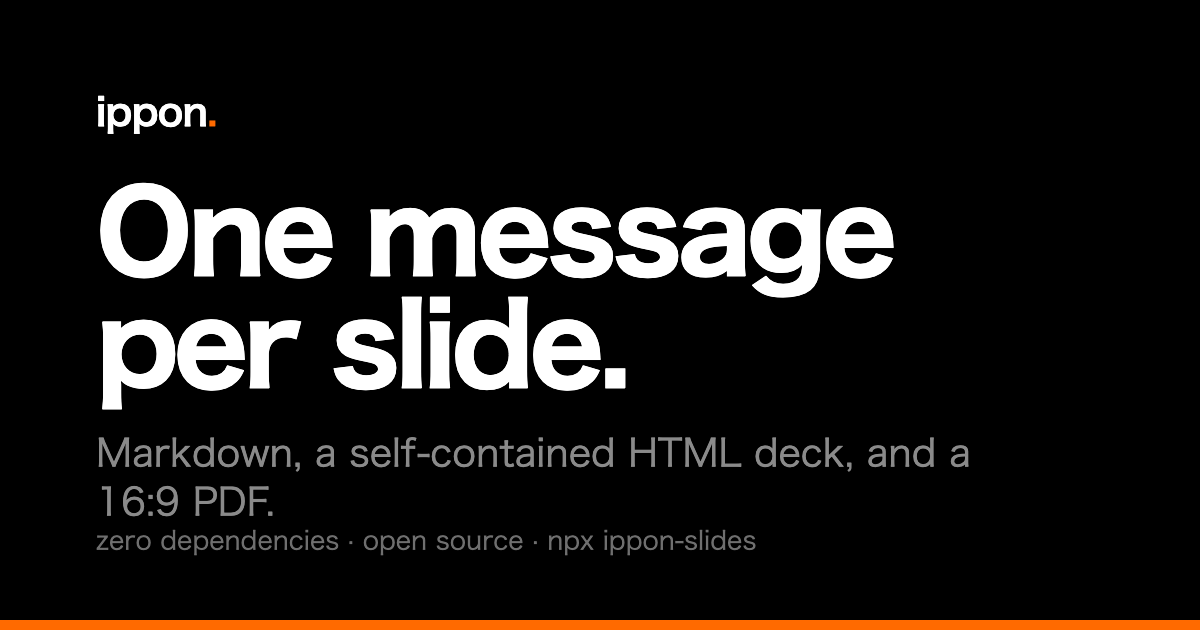
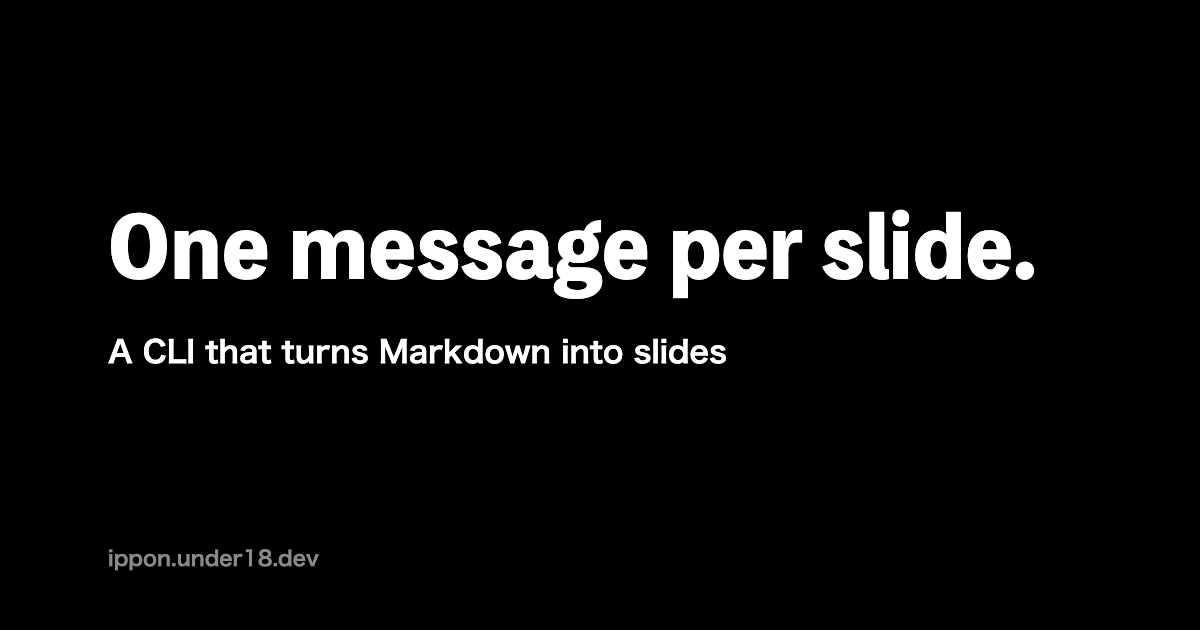
docs: サイトの SEO と AIO を強化する（ページごとの OGP 画像、構造化データ、llms.txt）
- ページごとの OGP 画像を ippon ogp で作り（scripts/og.mjs）、route middleware で og:image に入れる
- ドキュメントに TechArticle とパンくず、よくある質問に FAQPage、トップに WebSite と SoftwareApplication の JSON-LD を付ける
- 各ページの description を descriptions.ts で日英とも書き、<title> にサイトの説明を付け、トップの <title> を検索向けにする
- /llms.txt と /llms-full.txt をドキュメントから作り、robots.txt で AI のクローラーを明示的に許可する
- サイドバーに「なぜ ippon か」と「よくある質問」を足し、theme-color を今の配色に合わせ、og.png を新しい画像にする

diff --git a/site/src/landing.ts b/site/src/landing.ts
@@ -1,12 +1,15 @@
 // トップページの文言（英語 / 日本語）。ヒーローは src/components/Hero.astro、機能のカードは src/components/Features.astro
 
 import type { StarlightIcon } from '@astrojs/starlight/types'
+import pkg from '../../package.json'
 
 export type Lang = 'en' | 'ja'
 
 export interface Copy {
-  /** <title> と og:title（Starlight が「| ippon」を付ける） */
+  /** og:title とページの名前 */
   title: string
+  /** トップの <title>（検索結果に出る。サイト名は付けない） */
+  pageTitle: string
   description: string
   hero: { title: string; lede: string; start: string; github: string; copy: string; copied: string }
   demo: { source: string; deck: string; prev: string; next: string }
@@ -24,6 +27,7 @@ export const docsPath = (lang: Lang, page = '') => `${lang === 'ja' ? '/ja' : ''
 export const COPY: Record<Lang, Copy> = {
   en: {
     title: 'One message per slide',
+    pageTitle: 'ippon — Turn Markdown into one-message-per-slide decks',
     description:
       'A zero-dependency CLI that turns Markdown into one-message-per-slide decks: a single self-contained HTML file, a 16:9 PDF and a share image. Present from your phone, embed live HTTP responses, zoom into code.',
     hero: {
@@ -49,6 +53,7 @@ export const COPY: Record<Lang, Copy> = {
   },
   ja: {
     title: '1 枚 1 メッセージ',
+    pageTitle: 'ippon — Markdown で 1 枚 1 メッセージのスライドを作る CLI',
     description:
       'Markdown を「1 枚 1 メッセージ」のスライドに変換するゼロ依存の CLI。CSS/JS 全部入りの単一 HTML、16:9 の PDF、共有用の画像を出力。スマホをリモコンに、HTTP レスポンスの埋め込み、コードの拡大にも対応。',
     hero: {
@@ -74,22 +79,43 @@ export const COPY: Record<Lang, Copy> = {
   },
 }
 
-/** トップページの <head> に足す構造化データ */
+/** トップページの <head> に足す構造化データ（サイトとソフトウェア） */
 export function homeHead(lang: Lang) {
-  const ld = {
+  const home = `https://ippon.under18.dev${lang === 'ja' ? '/ja/' : '/'}`
+  const t = COPY[lang]
+  const graph = {
     '@context': 'https://schema.org',
-    '@type': 'SoftwareApplication',
-    name: 'ippon-slides',
-    alternateName: 'ippon',
-    description: COPY[lang].description,
-    applicationCategory: 'DeveloperApplication',
-    operatingSystem: 'macOS, Linux, Windows (Node.js ≥ 18.17)',
-    url: `https://ippon.under18.dev${lang === 'ja' ? '/ja/' : '/'}`,
-    downloadUrl: 'https://www.npmjs.com/package/ippon-slides',
-    codeRepository: 'https://github.com/under18dev/ippon-slides',
-    license: 'https://opensource.org/licenses/MIT',
-    author: { '@type': 'Person', name: 'tanahiro2010' },
-    offers: { '@type': 'Offer', price: '0', priceCurrency: lang === 'ja' ? 'JPY' : 'USD' },
+    '@graph': [
+      {
+        '@type': 'WebSite',
+        name: 'ippon',
+        alternateName: 'ippon-slides',
+        url: home,
+        inLanguage: lang,
+        description: t.description,
+      },
+      {
+        '@type': 'SoftwareApplication',
+        name: 'ippon-slides',
+        alternateName: 'ippon',
+        description: t.description,
+        applicationCategory: 'DeveloperApplication',
+        applicationSubCategory: 'Presentation software',
+        operatingSystem: 'macOS, Linux, Windows (Node.js ≥ 18.17)',
+        softwareVersion: pkg.version,
+        url: home,
+        image: `https://ippon.under18.dev/og/${lang === 'ja' ? 'ja/index' : 'index'}.png`,
+        downloadUrl: 'https://www.npmjs.com/package/ippon-slides',
+        installUrl: 'https://www.npmjs.com/package/ippon-slides',
+        codeRepository: 'https://github.com/under18dev/ippon-slides',
+        sameAs: ['https://github.com/under18dev/ippon-slides', 'https://www.npmjs.com/package/ippon-slides'],
+        license: 'https://opensource.org/licenses/MIT',
+        isAccessibleForFree: true,
+        featureList: t.features.map(([, title]) => title),
+        author: { '@type': 'Person', name: 'tanahiro2010', url: 'https://github.com/tanahiro2010' },
+        offers: { '@type': 'Offer', price: '0', priceCurrency: lang === 'ja' ? 'JPY' : 'USD' },
+      },
+    ],
   }
-  return [{ tag: 'script' as const, attrs: { type: 'application/ld+json' }, content: JSON.stringify(ld) }]
+  return [{ tag: 'script' as const, attrs: { type: 'application/ld+json' }, content: JSON.stringify(graph) }]
 }

diff --git a/site/src/descriptions.ts b/site/src/descriptions.ts
@@ -1,0 +1,34 @@
+// ドキュメントの各ページの meta description（検索結果や SNS のプレビューに出る文）。
+// docs/ は GitHub でも読めるよう frontmatter を持たないので、ここで決める。無いページは最初の段落を使う。
+// ページを足したら、英語（docs/...）と日本語（ja/docs/...）の両方を書くこと。
+
+export const DESCRIPTIONS: Record<string, string> = {
+  docs: 'Documentation for ippon, a zero-dependency CLI that turns Markdown into one-message-per-slide decks as a single HTML file or a 16:9 PDF.',
+  'docs/why':
+    'Why ippon: the Takahashi-method idea behind it, and how it compares with Marp, Slidev and reveal.js for making slides from Markdown.',
+  'docs/getting-started':
+    'Make your first deck from Markdown with ippon: run npx ippon-slides init, separate slides with ---, and build an HTML file or a PDF.',
+  'docs/syntax':
+    "ippon's Markdown syntax for slides: slide breaks, directives for background color and text size, two columns, code highlighting, speaker notes, QR codes and background images.",
+  'docs/presenter':
+    'Presenting with ippon: keyboard shortcuts, click-to-zoom with a line spotlight, the timer, speaker notes in the presenter view, and reading mode on phones.',
+  'docs/theming': 'Change the look of ippon slides with --css: override CSS variables for the accent color, the heading font and the text size.',
+  'docs/http':
+    'Show real API calls on slides with ::http::. ippon fetches the response at build time and bakes the status, timing, headers and JSON into the deck.',
+  'docs/serve':
+    'Use your phone as a slide remote with ippon serve: scan a QR code to change slides, read speaker notes and control the timer. The deck reloads when you save.',
+  'docs/cli': 'Reference for every ippon command and option: build, serve, ogp, init, current and skills init, and the rules for HTML and PDF output paths.',
+  'docs/faq':
+    'Answers to common questions about ippon: PDF and PPTX export, presenting offline, images, changing the look, speaker notes, the phone remote and AI agents.',
+
+  'ja/docs': 'Markdown から 1 枚 1 メッセージのスライドを作る CLI「ippon」のドキュメント。HTML 1 ファイルと 16:9 の PDF を出力し、依存はゼロです。',
+  'ja/docs/why': 'ippon の考え方（高橋メソッド）と、Marp・Slidev・reveal.js など Markdown でスライドを作るほかの道具との違い、向いている場面をまとめています。',
+  'ja/docs/getting-started': 'ippon で Markdown からスライドを作る最初の手順。npx ippon-slides init でサンプルを作り、--- で区切って書き、HTML や PDF にビルドします。',
+  'ja/docs/syntax': 'ippon のスライド用の Markdown 記法。スライドの区切り、背景色や文字の大きさの指示、2 カラム、コードのハイライト、発表者ノート、QR コード、背景画像。',
+  'ja/docs/presenter': 'ippon で発表するときの操作。キー操作、クリックでの拡大と行の強調、タイマー、発表者ビューのノート、スマホでの縦読みモード。',
+  'ja/docs/theming': 'ippon のスライドの見た目を --css で変える方法。アクセントの色、見出しのフォント、文字の大きさを CSS 変数で上書きします。',
+  'ja/docs/http': '::http:: で API のリクエストと実際のレスポンスをスライドに出す方法。ビルド時に取得して、ステータス・時間・ヘッダー・JSON を焼き込みます。',
+  'ja/docs/serve': 'ippon serve でスマホをスライドのリモコンにする方法。QR コードを読み取り、ページ送り、発表者ノート、タイマーを手元で操作できます。保存すると反映されます。',
+  'ja/docs/cli': 'ippon のコマンドとオプションの一覧。build・serve・ogp・init・current・skills init と、HTML / PDF の出力先の決まり。',
+  'ja/docs/faq': 'ippon のよくある質問。PDF や PPTX への書き出し、オフラインでの発表、画像、見た目の変更、発表者ノート、スマホでの操作、AI エージェントとの使い方。',
+}

diff --git a/site/src/routeData.ts b/site/src/routeData.ts
@@ -1,0 +1,104 @@
+// ページごとの <head> を足し引きする（Starlight の route middleware）。
+//   - og:image を scripts/og.mjs が ippon で作ったそのページの画像にする
+//   - トップの <title> を検索結果向けのものにする
+//   - ドキュメントに構造化データ（TechArticle・パンくず、よくある質問は FAQPage）を付ける
+import { defineRouteMiddleware } from '@astrojs/starlight/route-data'
+import type { StarlightRouteData } from '@astrojs/starlight/route-data'
+import { COPY, homeHead, langOf } from './landing'
+
+const SITE = 'https://ippon.under18.dev'
+type Head = StarlightRouteData['head']
+type HeadEntry = Head[number]
+
+/** 同じものがあれば置き換え、無ければ足す */
+function put(head: Head, match: (e: HeadEntry) => boolean, entry: HeadEntry) {
+  const i = head.findIndex(match)
+  if (i >= 0) head[i] = entry
+  else head.push(entry)
+}
+const meta = (property: string) => (e: HeadEntry) => e.tag === 'meta' && e.attrs?.property === property
+const jsonLd = (data: object): HeadEntry => ({ tag: 'script', attrs: { type: 'application/ld+json' }, content: JSON.stringify(data) })
+
+/** Markdown を構造化データ用のただの文に（リンク・コード・強調の記号を外す） */
+const plain = (md: string) =>
+  md
+    .replace(/\[([^\]]+)\]\([^)]*\)/g, '$1')
+    .replace(/[`*]/g, '')
+    .replace(/\s*\n\s*/g, ' ')
+    .trim()
+
+/** よくある質問のページ：`## 質問` と、その下の本文を組にする */
+function faqItems(body: string) {
+  return body
+    .split(/^## /m)
+    .slice(1)
+    .map((part) => {
+      const [q = '', ...rest] = part.split('\n')
+      return { q: plain(q), a: plain(rest.join('\n')) }
+    })
+    .filter((x) => x.q && x.a)
+}
+
+export const onRequest = defineRouteMiddleware((context) => {
+  const route = context.locals.starlightRoute
+  const { head, entry } = route
+  if (route.id === '404' || route.id.endsWith('/404')) return
+
+  const lang = langOf(route.locale)
+  const isHome = Boolean(entry.data.hero)
+  const id = isHome ? (lang === 'ja' ? 'ja/index' : 'index') : route.id
+  const url = SITE + context.url.pathname
+  const t = COPY[lang]
+
+  put(head, meta('og:image'), { tag: 'meta', attrs: { property: 'og:image', content: `${SITE}/og/${id}.png` } })
+  put(head, meta('og:image:alt'), { tag: 'meta', attrs: { property: 'og:image:alt', content: entry.data.title } })
+
+  if (isHome) {
+    put(head, (e) => e.tag === 'title', { tag: 'title', content: t.pageTitle })
+    put(head, meta('og:type'), { tag: 'meta', attrs: { property: 'og:type', content: 'website' } })
+    head.push(...homeHead(lang))
+    return
+  }
+
+  const home = `${SITE}${lang === 'ja' ? '/ja/' : '/'}`
+  const docsHome = `${SITE}${lang === 'ja' ? '/ja' : ''}/docs/`
+  const crumbs = [
+    { name: 'ippon', item: home },
+    { name: lang === 'ja' ? 'ドキュメント' : 'Docs', item: docsHome },
+    ...(url === docsHome ? [] : [{ name: entry.data.title, item: url }]),
+  ]
+  head.push(
+    jsonLd({
+      '@context': 'https://schema.org',
+      '@type': 'TechArticle',
+      headline: entry.data.title,
+      description: entry.data.description,
+      inLanguage: lang,
+      url,
+      image: `${SITE}/og/${id}.png`,
+      author: { '@type': 'Person', name: 'tanahiro2010', url: 'https://github.com/tanahiro2010' },
+      isPartOf: { '@type': 'WebSite', name: 'ippon', url: home },
+      about: { '@type': 'SoftwareApplication', name: 'ippon-slides', url: home },
+    }),
+    jsonLd({
+      '@context': 'https://schema.org',
+      '@type': 'BreadcrumbList',
+      itemListElement: crumbs.map((c, i) => ({ '@type': 'ListItem', position: i + 1, ...c })),
+    })
+  )
+
+  if (/(^|\/)docs\/faq$/.test(route.id) && entry.body) {
+    head.push(
+      jsonLd({
+        '@context': 'https://schema.org',
+        '@type': 'FAQPage',
+        inLanguage: lang,
+        mainEntity: faqItems(entry.body).map(({ q, a }) => ({
+          '@type': 'Question',
+          name: q,
+          acceptedAnswer: { '@type': 'Answer', text: a },
+        })),
+      })
+    )
+  }
+})

diff --git a/site/src/content.config.ts b/site/src/content.config.ts
@@ -10,6 +10,7 @@ import { docsSchema } from '@astrojs/starlight/schema'
 import { readFile, readdir } from 'node:fs/promises'
 import { posix, relative } from 'node:path'
 import { fileURLToPath } from 'node:url'
+import { DESCRIPTIONS } from './descriptions'
 
 const REPO = 'https://github.com/under18dev/ippon-slides/blob/main/'
 
@@ -57,17 +58,21 @@ function repoDocs(): Loader {
               continue
             }
             const body = rewriteLinks(src.replace(h1[0], ''), dir)
-            // 最初の段落を description に（検索結果や OGP 用）
+            const id = prefix + slugOf(file)
+            // description は descriptions.ts のもの。無ければ最初の段落（日本語の行の折り返しは詰めてつなぐ）
             const lead = body
               .split(/\n\n+/)
               .map((p) => p.trim())
               .find((p) => p && !/^[#>|`\-*!]/.test(p))
-            const description = lead
-              ?.replace(/\[([^\]]+)\]\([^)]*\)/g, '$1')
-              .replace(/[`*]/g, '')
-              .replace(/\s*\n\s*/g, ' ')
-              .slice(0, 160)
-            const id = prefix + slugOf(file)
+            const description =
+              DESCRIPTIONS[id] ??
+              lead
+                ?.replace(/\[([^\]]+)\]\([^)]*\)/g, '$1')
+                .replace(/[`*]/g, '')
+                .replace(/([^\x00-\x7f])\s*\n\s*(?=[^\x00-\x7f])/g, '$1')
+                .replace(/\s*\n\s*/g, ' ')
+                .slice(0, 160)
+            if (!DESCRIPTIONS[id]) logger.warn(`${id} の description が descriptions.ts にありません`)
             const data = await parseData({
               id,
               data: { title: h1[1]!.replace(/`/g, ''), ...(description ? { description } : {}) },

diff --git a/site/src/pages/llms.txt.ts b/site/src/pages/llms.txt.ts
@@ -1,0 +1,33 @@
+// https://llmstxt.org/ の形式で、サイトの要約とドキュメントの一覧を返す
+import type { APIRoute } from 'astro'
+import { COPY } from '../landing'
+import { SITE, docsOf } from '../llms'
+
+export const GET: APIRoute = async () => {
+  const section = async (prefix: '' | 'ja/') =>
+    (await docsOf(prefix)).map((e) => `- [${e.data.title}](${SITE}/${e.id}/): ${e.data.description ?? ''}`.trimEnd()).join('\n')
+
+  const body = `# ippon
+
+> ${COPY.en.description}
+
+ippon (npm package \`ippon-slides\`, command \`ippon\`) is a zero-dependency Node.js CLI for Takahashi-method, one-message-per-slide presentations. Write slides in Markdown separated by \`---\`, then run \`npx ippon-slides build slide.md\` to get a single self-contained HTML file, or add \`--pdf\` for a 16:9 PDF (uses a local Chrome). MIT licensed. Source: https://github.com/under18dev/ippon-slides
+
+- Try it: \`npx ippon-slides init\` creates a sample \`slide.md\`.
+- The full documentation as one Markdown file: ${SITE}/llms-full.txt
+
+## Docs
+
+${await section('')}
+
+## Docs (日本語)
+
+${await section('ja/')}
+
+## Optional
+
+- [npm package](https://www.npmjs.com/package/ippon-slides)
+- [GitHub repository](https://github.com/under18dev/ippon-slides)
+`
+  return new Response(body, { headers: { 'Content-Type': 'text/plain; charset=utf-8' } })
+}

diff --git a/site/src/llms.ts b/site/src/llms.ts
@@ -1,0 +1,16 @@
+// /llms.txt と /llms-full.txt の中身（AI のクローラーやエージェント向けに、ドキュメントをただの Markdown で渡す）
+import { getCollection } from 'astro:content'
+
+export const SITE = 'https://ippon.under18.dev'
+
+/** サイドバーと同じ順番 */
+const ORDER = ['docs', 'docs/why', 'docs/getting-started', 'docs/syntax', 'docs/presenter', 'docs/theming', 'docs/http', 'docs/serve', 'docs/cli', 'docs/faq']
+
+/** 言語ごとのドキュメントを並べて返す（英語は prefix なし、日本語は ja/） */
+export async function docsOf(prefix: '' | 'ja/') {
+  const all = await getCollection('docs')
+  return ORDER.map((slug) => all.find((e) => e.id === prefix + slug)).filter((e) => e !== undefined)
+}
+
+/** 本文のサイト内リンク（/docs/foo/）を絶対 URL にする */
+export const absolute = (md: string) => md.replace(/\]\(\//g, `](${SITE}/`)

diff --git a/site/src/pages/llms-full.txt.ts b/site/src/pages/llms-full.txt.ts
@@ -1,0 +1,9 @@
+// ドキュメント全部（英語、続けて日本語）を 1 つの Markdown にして返す
+import type { APIRoute } from 'astro'
+import { SITE, absolute, docsOf } from '../llms'
+
+export const GET: APIRoute = async () => {
+  const pages = [...(await docsOf('')), ...(await docsOf('ja/'))]
+  const body = pages.map((e) => `# ${e.data.title}\n\nSource: ${SITE}/${e.id}/\n\n${absolute(e.body ?? '').trim()}\n`).join('\n---\n\n')
+  return new Response(body, { headers: { 'Content-Type': 'text/plain; charset=utf-8' } })
+}

diff --git a/CLAUDE.md b/CLAUDE.md
@@ -35,6 +35,7 @@ cd site && npm ci && npm run build # → site/dist/  (npm run dev for a dev serv
 - **Docs content is the repo's `docs/` (Japanese) and `docs/en/` (English)**, read by the custom loader in `site/src/content.config.ts`. The files have no frontmatter: the first `# H1` becomes the page title, and relative `foo.md#anchor` links are rewritten to `/docs/foo/` (`/ja/docs/foo/`). English is the root locale (`/docs/`), Japanese is `/ja/docs/`. The sidebar is in `site/astro.config.mjs`.
 - **Keep `docs/` and `docs/en/` in sync**: same files, same heading structure. When you change syntax or CLI options, update both (plus README and `HELP`).
 - The home page (`site/src/pages/index.astro` / `ja/index.astro`) is a Starlight splash page. Its hero is `site/src/components/Hero.astro`, which overrides Starlight's `Hero`, and its copy is in `site/src/landing.ts`. The hero embeds a real deck: `site/scripts/demo.mjs` builds `site/demo/<lang>.md` with `bin/ippon.js` into `site/public/demo/<lang>/`. An editor window shows the current slide's Markdown (split with `slideLines()` from `dist/markdown.js`), synced through the iframe's `#N` hash.
+- SEO / AIO: `site/src/routeData.ts` (Starlight route middleware) sets each page's `og:image`, the home `<title>` and JSON-LD (TechArticle + BreadcrumbList on docs, FAQPage on `docs/faq`, WebSite + SoftwareApplication on the home page). `site/scripts/og.mjs` (run by `npm run build`) renders every page's OGP image with `ippon ogp` into `site/public/og/<page id>.png` (gitignored; it falls back to `public/og.png` when no browser is found). Meta descriptions are in `site/src/descriptions.ts`: **add both languages when you add a docs page** (and add it to the sidebar and `ORDER` in `site/src/llms.ts`). `/llms.txt` and `/llms-full.txt` are generated from the docs collection.
 - If you reinstall site dependencies, make sure `site/package-lock.json` resolves to `https://registry.npmjs.org/` (a local registry proxy would break CI).
 - `pages.yml` builds and deploys it on pushes to main that touch `site/`, `docs/`, `src/` or `assets/`; `ci.yml` builds it on every PR.
 
